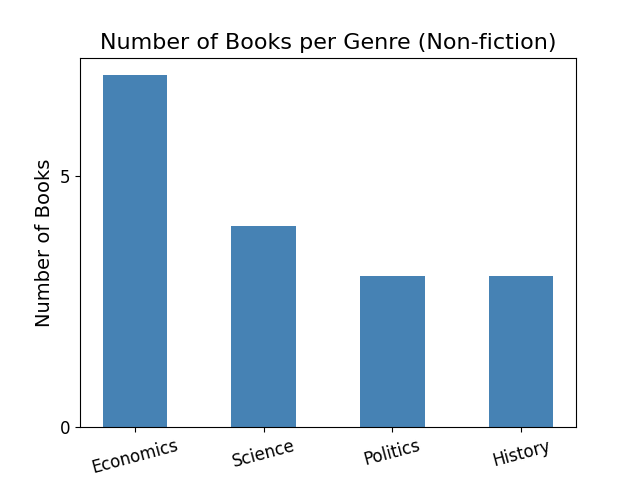
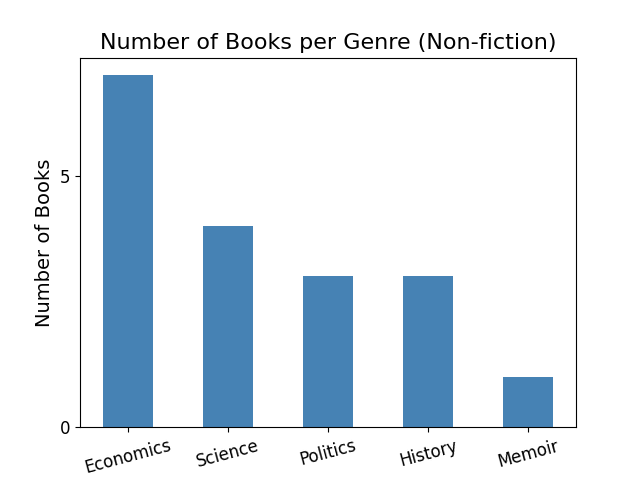
added book

diff --git a/Miscellaneous_books.md b/Miscellaneous_books.md
@@ -97,7 +97,7 @@ Additional info:
 - **Damascus Station**, _David McCloskey_, 4 ⭐
 - **The Spy Who Came in from the Cold**, _John le Carré_, 5 ⭐ 🛸
 - **Tinker Tailor Soldier Spy**, _John le Carré_, 5 ⭐ 🛸
-- **The Constant Gardener**, _John le Carré_, 5 ⭐ 🛸
+- **The Constant Gardener**, _John le Carré_, 4 ⭐ 🛸
 
 ## Historical Fiction
 - **Shogun**, _James Clavell_, 4 ⭐ 🛸
@@ -130,13 +130,18 @@ Additional info:
 - **How to Be an Anticapitalist in the Twenty-First Century**, _Erik Olin Wright_, 3 ⭐
 - **Doughnut Economics**, _Kate Raworth_, 4 ⭐
 - **The Money Machine: How the City Works**, _Philip Coggan_, 3 ⭐
-- **Why Nations Fail: The Origins of Power, Prosperity and Poverty**, _Daron Acemoglu & James A.Robinson_, 4 ⭐ 🛸
+- **Why Nations Fail: The Origins of Power, Prosperity and Poverty**, _Daron Acemoglu & James A.Robinson_, 5 ⭐ 🛸
 
 ## History 
 
 - **The Anarchy: The Relentless Rise of the East India Company**, _William Dalrymple_, 5 ⭐
 - **Homage to Catalonia**, _George Orwell_, 3 ⭐ 🛸
 - **Killers of the Flower Moon**, _David Grann_, 4 ⭐ 🛸
+
+## Memoir
+
+- **Educated**, _Tara Westover_, 3 ⭐ 🛸
+
 
 # Data
 
